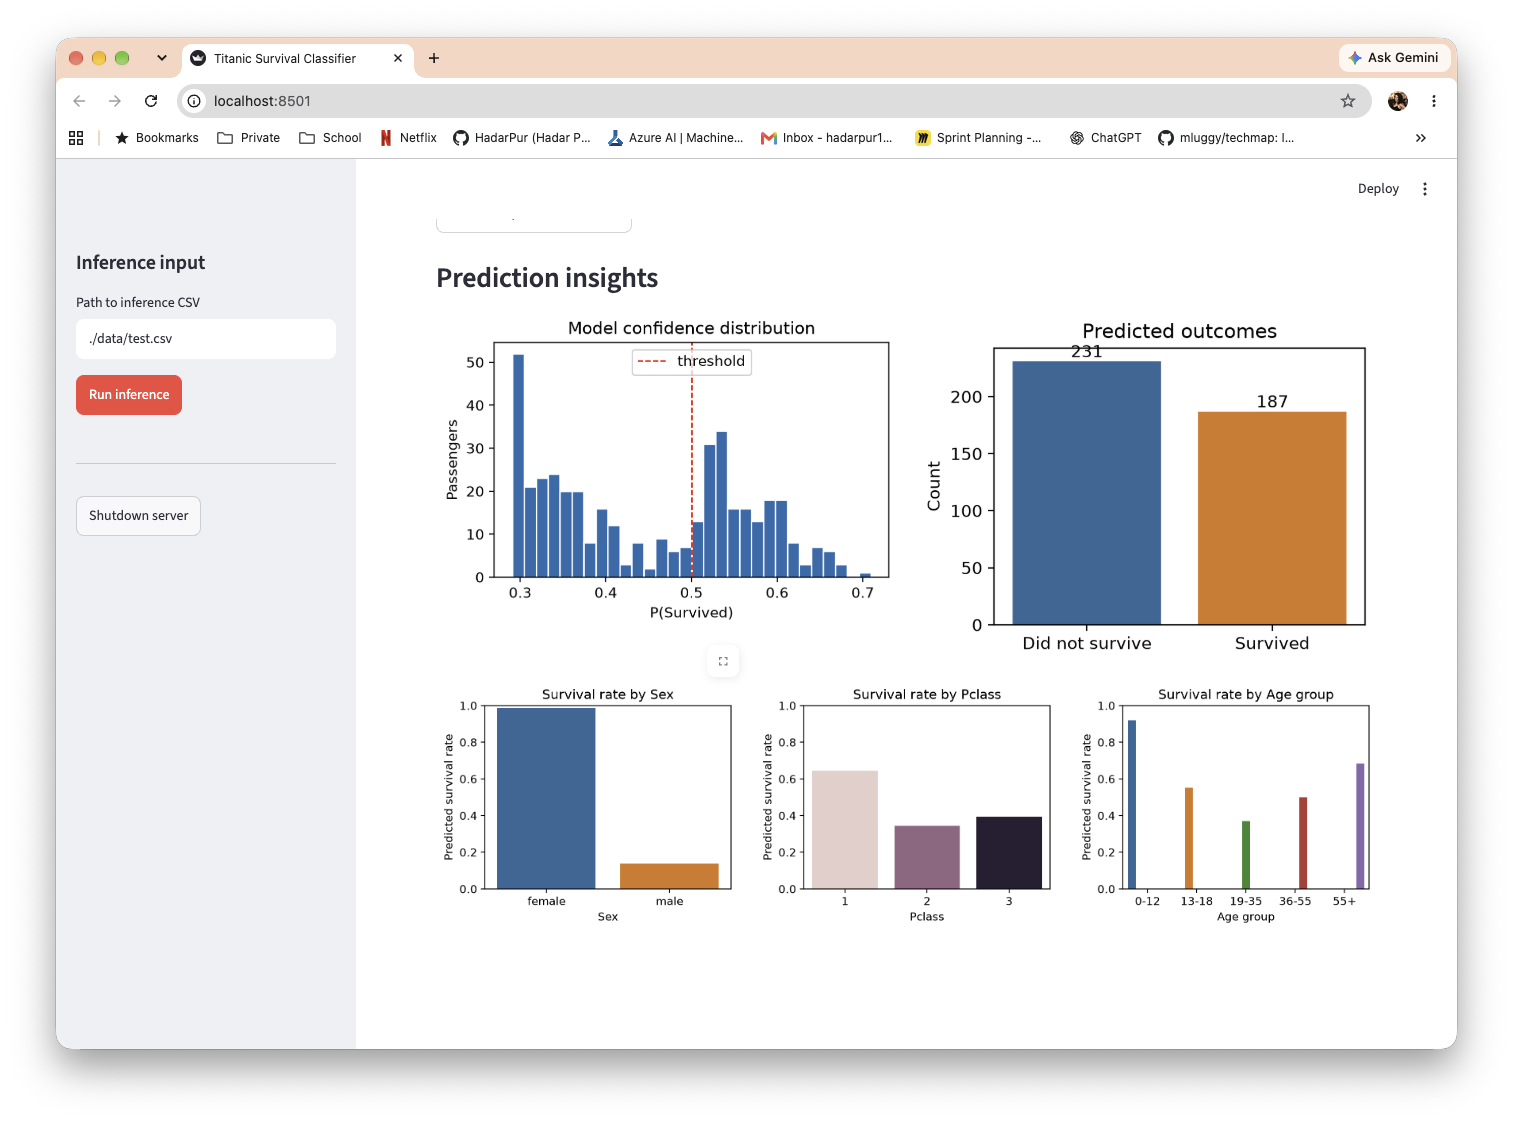
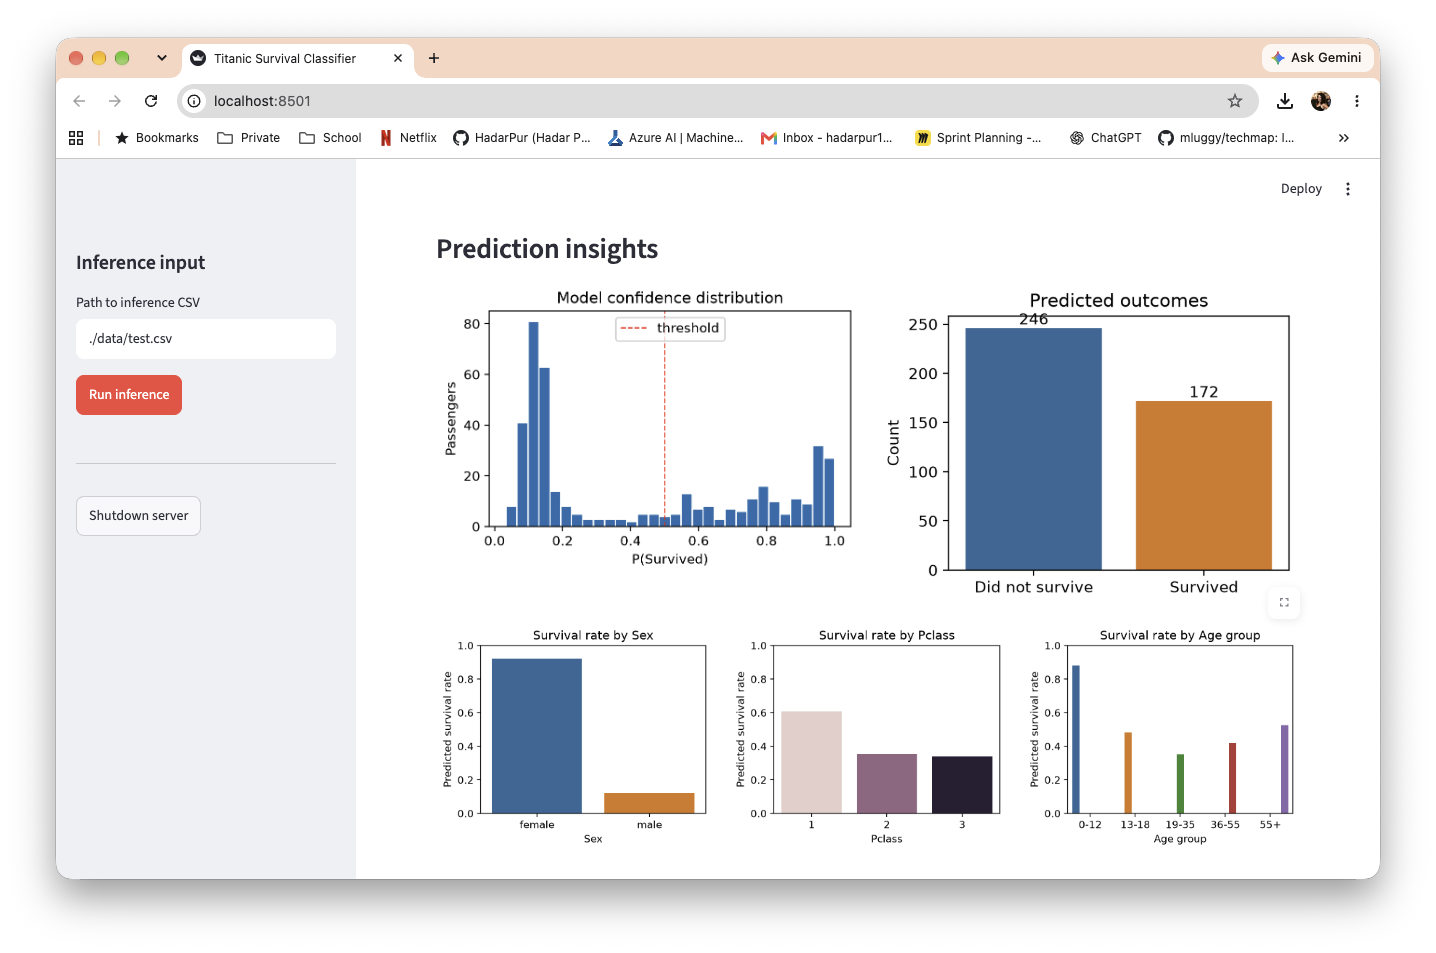
add confusion matrix

diff --git a/ds_app.py b/ds_app.py
@@ -102,6 +102,30 @@ def plot_rate_by_feature(df, y_pred, feature):
     return fig
 
 
+def plot_confusion_matrix(y_true, y_pred):
+    y_true = np.asarray(y_true, dtype=int).ravel()
+    y_pred = np.asarray(y_pred, dtype=int).ravel()
+    matrix = np.zeros((2, 2), dtype=int)
+    for t, p in zip(y_true, y_pred):
+        matrix[t, p] += 1
+    labels = ["Did not survive", "Survived"]
+    fig, ax = plt.subplots(figsize=(4, 3))
+    sns.heatmap(
+        matrix,
+        annot=True,
+        fmt="d",
+        cmap="Blues",
+        xticklabels=labels,
+        yticklabels=labels,
+        cbar=False,
+        ax=ax,
+    )
+    ax.set_xlabel("Predicted")
+    ax.set_ylabel("Actual (gender_submission.csv)")
+    ax.set_title(f"Confusion matrix (n={matrix.sum()})")
+    return fig
+
+
 def plot_rate_by_age(df, y_pred):
     buckets = pd.cut(
         df["Age"],
@@ -149,6 +173,15 @@ predictions_df = pd.DataFrame({
     "Predicted": predicted_labels,
     "P(Survived)": predicted_probabilities.round(4),
 })
+
+reference_path = Path("./data/gender_submission.csv")
+if reference_path.exists() and "PassengerId" in inference_df.columns:
+    reference_df = pd.read_csv(reference_path)[["PassengerId", "Survived"]]
+    predictions_df["PassengerId"] = predictions_df["PassengerId"].astype(int)
+    reference_df["PassengerId"] = reference_df["PassengerId"].astype(int)
+    predictions_df = predictions_df.merge(reference_df, on="PassengerId", how="left")
+    predictions_df = predictions_df.rename(columns={"Survived": "Survived (gender_submission)"})
+
 st.dataframe(predictions_df, use_container_width=True, height=320)
 
 st.download_button(
@@ -174,3 +207,17 @@ with bottom_col2:
     st.pyplot(plot_rate_by_feature(inference_df, predicted_labels, "Pclass"))
 with bottom_col3:
     st.pyplot(plot_rate_by_age(inference_df, predicted_labels))
+
+# ------------------ Confusion matrix vs. gender_submission.csv ------------------
+if "Survived (gender_submission)" in predictions_df.columns:
+    labeled = predictions_df.dropna(subset=["Survived (gender_submission)"])
+    if not labeled.empty:
+        st.subheader("Confusion matrix: Predicted vs. gender_submission.csv")
+        accuracy = (labeled["Predicted"] == labeled["Survived (gender_submission)"]).mean()
+        st.caption(f"Accuracy on {len(labeled)} labeled passengers: {accuracy:.1%}")
+        st.pyplot(
+            plot_confusion_matrix(
+                labeled["Survived (gender_submission)"].values,
+                labeled["Predicted"].values,
+            )
+        )

diff --git a/README.md b/README.md
@@ -111,9 +111,10 @@ Then in the sidebar:
 The app displays:
 
 * A preview of the uploaded CSV.
-* A predictions table (`PassengerId`, `Predicted`, `P(Survived)`), with a CSV download button.
+* A predictions table (`PassengerId`, `Predicted`, `P(Survived)`, and — when `data/gender_submission.csv` is available — `Survived (gender_submission)`), with a CSV download button.
 * A probability-distribution histogram and a predicted-outcome bar chart.
 * Predicted survival rate broken down by `Sex`, `Pclass`, and age group.
+* A **confusion matrix** comparing predictions against `data/gender_submission.csv` when that file is present.
 
 A **Shutdown server** button in the sidebar stops the Streamlit process cleanly.
 
@@ -133,6 +134,10 @@ A **Shutdown server** button in the sidebar stops the Streamlit process cleanly.
 
 ![Streamlit insights](docs/screenshots/streamlit_insights.png)
 
+**Streamlit app — prediction insights (confusion matrix)**:
+
+![Streamlit insights](docs/screenshots/streamlit_insights2.png)
+
 End-to-end:
 
 ```bash
@@ -143,6 +148,31 @@ python train.py
 # Interactive inference
 streamlit run ds_app.py
 ```
+
+---
+
+## Results
+
+Running inference on `data/test.csv` (418 passengers) and comparing predictions against `data/gender_submission.csv` yields the following confusion matrix:
+
+|                            | Pred: Not Survived | Pred: Survived |
+|----------------------------|-------------------:|---------------:|
+| **Actual: Not Survived**   | 234 (TN)           | 32 (FP)        |
+| **Actual: Survived**       | 12 (FN)            | 140 (TP)       |
+
+Derived metrics (n = 418):
+
+| Metric      | Value  | Formula                       |
+|-------------|-------:|-------------------------------|
+| Accuracy    | 89.5%  | (TN + TP) / n = 374 / 418     |
+| Precision   | 81.4%  | TP / (TP + FP) = 140 / 172    |
+| Recall      | 92.1%  | TP / (TP + FN) = 140 / 152    |
+| Specificity | 88.0%  | TN / (TN + FP) = 234 / 266    |
+| F1-score    | 0.86   | 2·P·R / (P + R)               |
+
+The model slightly over-predicts "survived" (32 FPs vs. 12 FNs), with recall (92%) higher than precision (81%) — it rarely misses a real survivor but occasionally flags non-survivors.
+
+> **Note:** `gender_submission.csv` is Kaggle's "all females survived" baseline, not the real Titanic ground truth. These metrics measure agreement with that baseline, not true test-set accuracy. The authoritative accuracy comes from submitting predictions to Kaggle.
 
 ---
 
